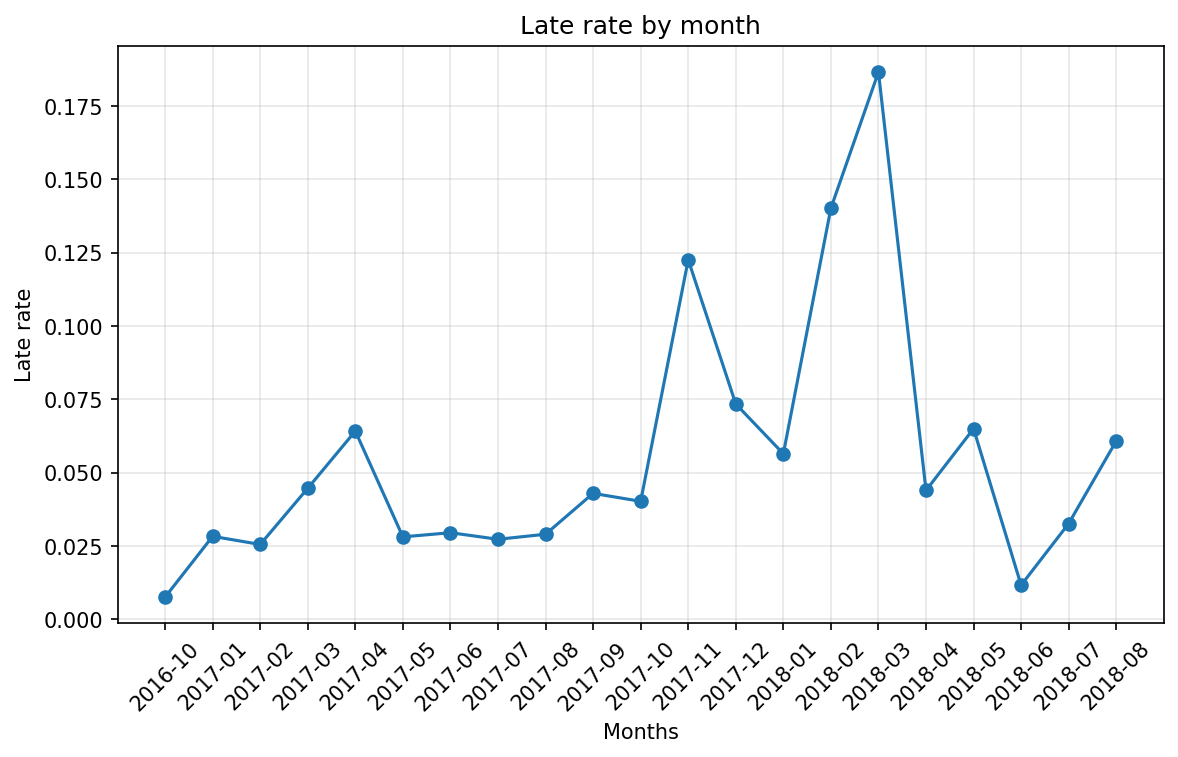
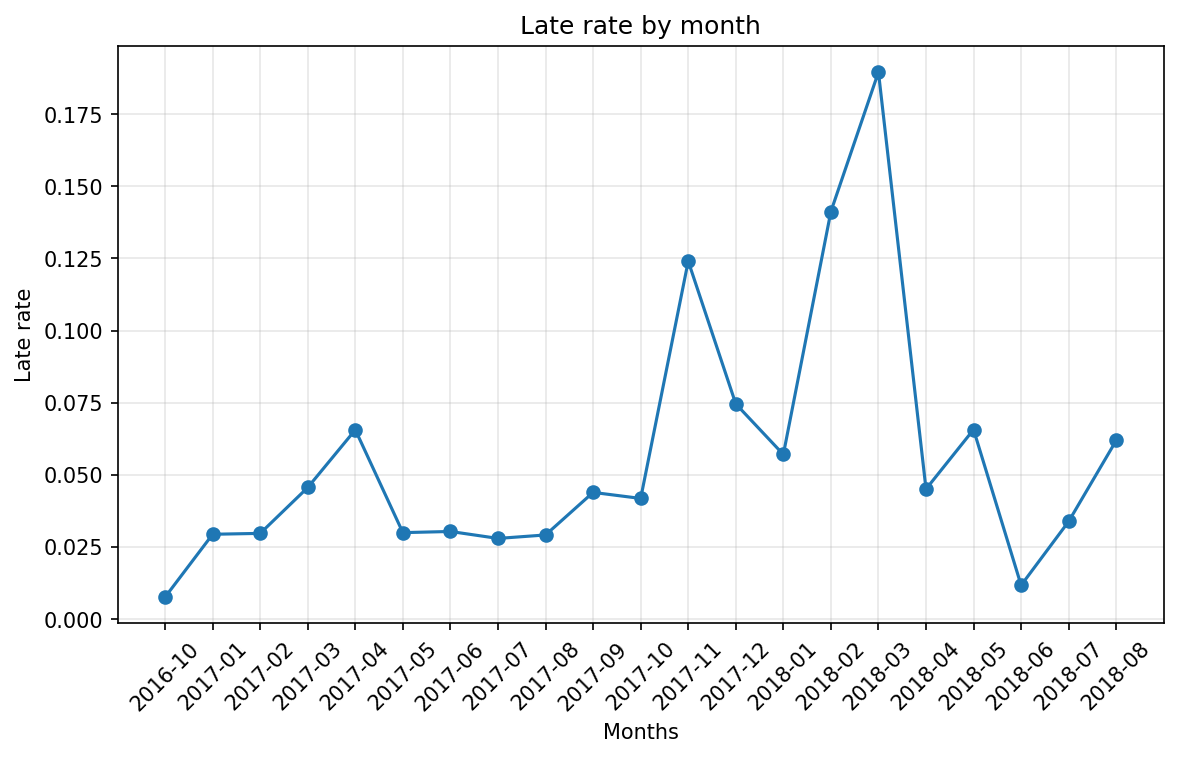
Add dashboard section and update numbers

diff --git a/README.md b/README.md
@@ -11,10 +11,11 @@ Olist gives every customer a delivery date at checkout. It hits that date 93% of
 pays for it with a 12-day buffer on average.
 
 Missing it is expensive. Late orders get 2.27 stars against 4.29 for on-time ones. Late
-deliveries are 6.7% of all orders and 32.5% of 1-2 star reviews.
+deliveries are 6.8% of all orders and 32.5% of 1-2 star reviews.
 
-No small group explains them. The worst 16 sellers account for 5.1% of late deliveries once
-each is measured against their own routes. Geography and demand peaks explain more.
+No small group explains them. The worst 17 sellers account for 4.6% of late deliveries once
+each is measured against their own routes, and 11.3% even at the loosest threshold I tried.
+Geography and demand peaks explain more.
 
 It also shows up in repeat business. Customers whose first order arrived late come back 2.52%
 of the time against 3.04%. Priced out, that gap is about 4,046 over two years, so retention is
@@ -23,6 +24,20 @@ not the argument for fixing delivery.
 I also tested whether a model could replace Olist's estimate. It predicts more accurately, MAE
 3.55 days against 4.42 for a per-state median. It still cannot promise better. To be on time
 as often as Olist, it has to promise 23.6 days against their 22.4.
+
+There is an [interactive dashboard](https://public.tableau.com/app/profile/mariana.stepaniuk/viz/OlistDeliveryPerformance_17897417736350/Deliverypromise)
+for the delivery-promise and seller parts.
+
+## Dashboard
+
+[Interactive version on Tableau Public](https://public.tableau.com/app/profile/mariana.stepaniuk/viz/OlistDeliveryPerformance_17897417736350/Deliverypromise)
+
+![Delivery promise](images/dashboard_delivery.png)
+
+![Sellers](images/dashboard_sellers.png)
+
+All transformations live in the notebooks. Notebook 05 writes a star schema to
+`data/bi/` and the dashboard reads that, so the BI layer does no computation of its own.
 
 ## Notebooks
 
@@ -37,6 +52,9 @@ predicted at checkout, and what a promise built on the model would look like
 
 **[04_sql_analysis](notebooks/04_sql_analysis.ipynb)** — the same questions in SQL, plus cohort
 retention and what a late first order does to repeat purchases
+
+**[05_export_for_bi](notebooks/05_export_for_bi.ipynb)** — star schema for the dashboard:
+`fact_orders`, `dim_seller`, `dim_date`
 
 ## Where the 12 days go
 
@@ -62,9 +80,9 @@ Late costs them two stars.
 
 ## Where the late orders come from
 
-Not the sellers. Measured against the average late rate on their own destinations, 16 sellers
-carry 328 of 6,381 late deliveries, 5.1%. At the loosest threshold it reaches 11.8% and no
-further. Category explains as little, 4.2% to 8.0%.
+Not the sellers. Measured against the average late rate on their own destinations, 17 sellers
+carry 298 of 6,534 late deliveries, 4.6%. At the loosest threshold it reaches 11.3% and no
+further. Category explains as little, 4.2% to 8.1%.
 
 Geography splits in two. The far North takes 19 to 27 days but misses the date only 3% of the
 time, because the estimate already covers the distance. The Northeast is slow and unreliable
@@ -98,33 +116,27 @@ Measured on a time-based test set, June to August 2018:
 | Per-state median | 4.42 |
 | **Final model, HGB + distance** | **3.55** |
 
-Olist's estimate scores 14.04 here, but it is built to avoid being late rather than to be
-accurate, so MAE is the wrong lens for it.
-
 ![Model comparison](images/model_comparison.png)
 
 I set the per-state median as the bar rather than the naive mean. A model that cannot beat a
-`groupby` is not worth having, and my first RandomForest did not beat it. The final model
-comes in 20% under the median.
-
-The biggest single gain came from matching the loss to the metric. Switching squared error to
-absolute error moved validation MAE from 5.09 to 4.52, more than any model or feature I tried.
-Tuning changed nothing.
+`groupby` is not worth having, and my first RandomForest did not beat it. The biggest single
+gain came from matching the loss to the metric: switching squared error to absolute error
+moved validation MAE from 5.09 to 4.52, more than any model or feature I tried.
 
 **A better prediction does not give a shorter promise.** A prediction sits in the middle of the
-distribution, so half the orders arrive after it. Turning it into a promise means adding a
-margin, and the margin has to cover the worst orders. Those are exactly what the model misses:
-R2 is 0.23, and orders that really take 30+ days get predicted at 10 to 20. Per-state margins
-help, from 10.3 days in SP to 30.2 in CE, but not enough to get under Olist's 22.4.
+distribution, so half the orders arrive after it. A promise needs a margin on top, and the
+margin has to cover the worst orders, which are exactly what the model misses. R2 is 0.23, and
+orders that really take 30+ days get predicted at 10 to 20. Per-state margins help, from 10.3
+days in SP to 30.2 in CE, but not enough to get under Olist's 22.4.
 
 ## What I would recommend
 
-1. **Widen the promise before known peaks.** November 2017 ran 7,237 orders against 4,446 the
+1. **Widen the promise before known peaks.** November 2017 ran 7,288 orders against 4,478 the
    month before, and late rate went from 0.04 to 0.12. The promise stayed the same.
 
 2. **Set the margin per route.** SP needs 10 days, CE needs 30. One number cannot serve both.
 
-3. **SLA for the 16 flagged sellers.** A small lever at 5.1% of late orders, but the list is
+3. **SLA for the 17 flagged sellers.** A small lever at 4.6% of late orders, but the list is
    short and each seller is measured against their own routes. Notebook 02 has it.
 
 4. **Do not replace the estimate with this model yet.** It predicts better and promises worse.
@@ -143,6 +155,10 @@ the test set was scored once.
 from 11-17 days in 2017 to 8-10 from July 2018, which is why test MAE comes in below
 validation MAE.
 
+**One seller per order.** Multi-seller orders are attributed to a single seller, using the rule
+from notebook 01. Attributing such an order to every seller on it inflates the seller share:
+the late order counts once per seller on top and once in the total below.
+
 ## Reproduce
 
 ```bash
@@ -150,5 +166,6 @@ pip install -r requirements.txt
 ```
 
 Download the [Olist dataset](https://www.kaggle.com/datasets/olistbr/brazilian-ecommerce) into
-`data/raw/` and run the notebooks in order. 01 builds `data/clean/clean.parquet`, which 02 and
-03 both read. 04 queries the raw CSVs directly through DuckDB and does not depend on 01.
+`data/raw/` and run the notebooks in order. 01 builds `data/clean/clean.parquet`, which 02, 03
+and 04 all read. 04 works from the raw CSVs through DuckDB and takes only the seller
+attribution from 01, so the two notebooks cannot drift apart.
